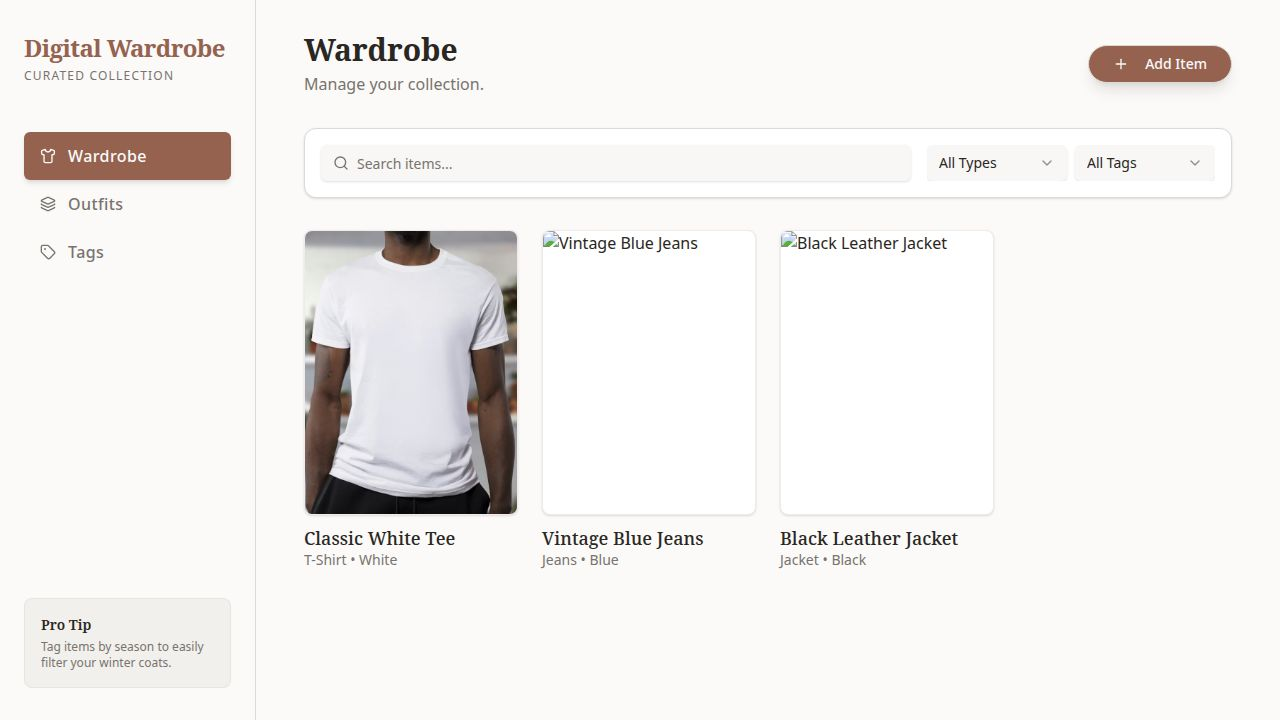
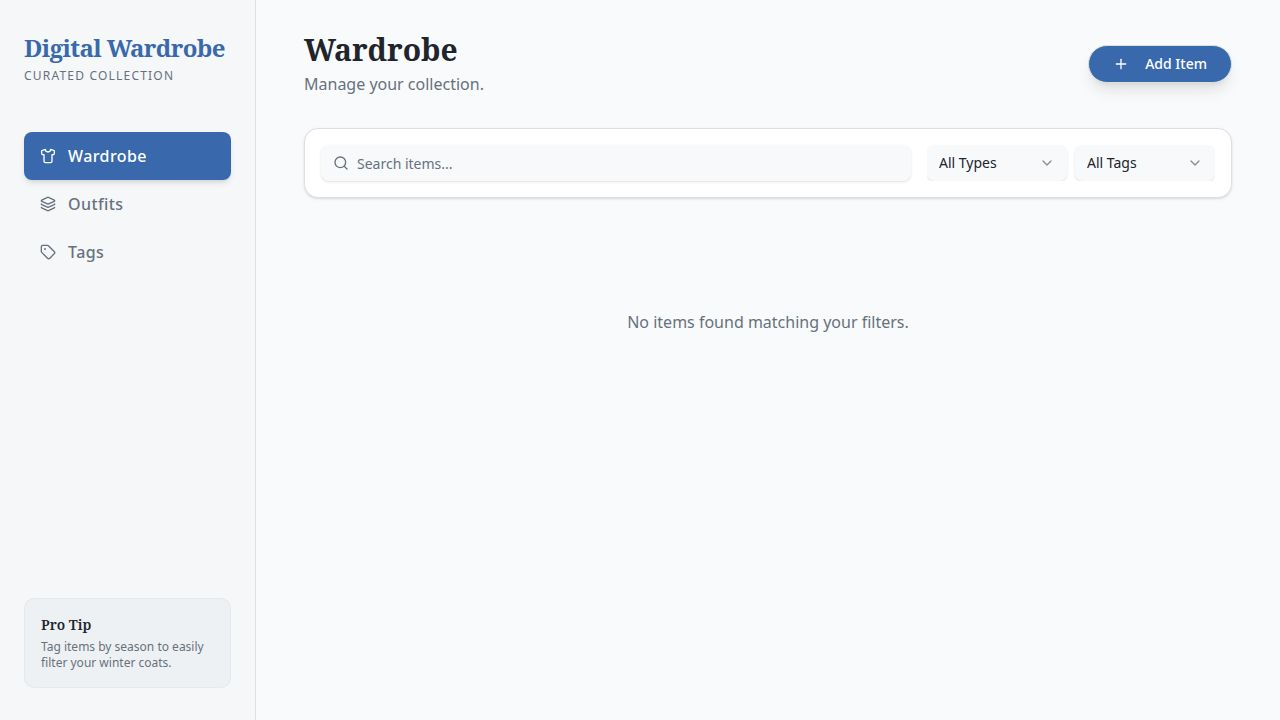
Update app color scheme to a modern cool slate palette
Replace warm neutral and terracotta colors with a cool slate and steel blue theme in client/src/index.css.

Replit-Commit-Author: Agent
Replit-Commit-Session-Id: afca13fa-0975-4b39-a9f3-641f27125e52
Replit-Commit-Checkpoint-Type: full_checkpoint
Replit-Commit-Event-Id: 32f22b6c-1d6d-4cc4-922f-88ea067fd136
Replit-Commit-Screenshot-Url: https://storage.googleapis.com/screenshot-production-us-central1/bad2f0ec-ba88-4ce2-959a-920aeea47803/afca13fa-0975-4b39-a9f3-641f27125e52/vcBfGRs
Replit-Helium-Checkpoint-Created: true

diff --git a/client/src/index.css b/client/src/index.css
@@ -54,109 +54,110 @@
 }
 
 /* 
-  Theme: Modern Minimalist Boutique
+  Theme: Cool Slate
   Fonts: Playfair Display (Headers), DM Sans (Body)
-  Colors: Warm Neutrals with Terracotta Accent
+  Colors: Steel blue primary with cool gray neutrals
 */
 
 :root {
-  /* Warm Off-White Background */
-  --background: 30 20% 98%;
-  --foreground: 30 10% 15%;
+  /* Cool Off-White Background */
+  --background: 210 20% 98%;
+  --foreground: 220 15% 15%;
 
   /* Clean White Cards */
   --card: 0 0% 100%;
-  --card-foreground: 30 10% 15%;
+  --card-foreground: 220 15% 15%;
 
   --popover: 0 0% 100%;
-  --popover-foreground: 30 10% 15%;
+  --popover-foreground: 220 15% 15%;
 
-  /* Muted Terracotta */
-  --primary: 15 30% 45%;
-  --primary-foreground: 30 20% 98%;
+  /* Steel Blue Primary */
+  --primary: 215 50% 45%;
+  --primary-foreground: 0 0% 100%;
 
-  /* Soft Beige Secondary */
-  --secondary: 30 15% 90%;
-  --secondary-foreground: 30 10% 15%;
+  /* Cool Gray Secondary */
+  --secondary: 210 15% 92%;
+  --secondary-foreground: 220 15% 20%;
 
-  --muted: 30 10% 94%;
-  --muted-foreground: 30 5% 45%;
+  --muted: 210 10% 94%;
+  --muted-foreground: 215 10% 45%;
 
-  --accent: 15 30% 96%;
-  --accent-foreground: 15 30% 45%;
+  --accent: 215 30% 95%;
+  --accent-foreground: 215 50% 40%;
 
-  --destructive: 0 84% 60%;
-  --destructive-foreground: 0 0% 98%;
+  --destructive: 0 72% 51%;
+  --destructive-foreground: 0 0% 100%;
 
-  --border: 30 10% 85%;
-  --input: 30 10% 85%;
-  --ring: 15 30% 45%;
+  --border: 210 15% 88%;
+  --input: 210 15% 88%;
+  --ring: 215 50% 45%;
 
-  --radius: 0.5rem;
+  --radius: 0.625rem;
 
-  --chart-1: 12 76% 61%;
-  --chart-2: 173 58% 39%;
-  --chart-3: 197 37% 24%;
-  --chart-4: 43 74% 66%;
-  --chart-5: 27 87% 67%;
+  --chart-1: 215 70% 50%;
+  --chart-2: 160 55% 40%;
+  --chart-3: 250 50% 55%;
+  --chart-4: 35 85% 55%;
+  --chart-5: 340 65% 50%;
 
-  --sidebar: 30 20% 98%;
-  --sidebar-foreground: 30 10% 15%;
-  --sidebar-primary: 15 30% 45%;
-  --sidebar-primary-foreground: 30 20% 98%;
-  --sidebar-accent: 30 15% 90%;
-  --sidebar-accent-foreground: 30 10% 15%;
-  --sidebar-border: 30 10% 85%;
-  --sidebar-ring: 15 30% 45%;
+  --sidebar: 215 25% 97%;
+  --sidebar-foreground: 220 15% 15%;
+  --sidebar-primary: 215 50% 45%;
+  --sidebar-primary-foreground: 0 0% 100%;
+  --sidebar-accent: 210 15% 92%;
+  --sidebar-accent-foreground: 220 15% 20%;
+  --sidebar-border: 210 15% 88%;
+  --sidebar-ring: 215 50% 45%;
   
   --font-sans: 'DM Sans', sans-serif;
   --font-serif: 'Playfair Display', serif;
 }
 
 .dark {
-  /* Dark Charcoal Background */
-  --background: 30 5% 10%;
-  --foreground: 30 20% 98%;
+  /* Deep Slate Background */
+  --background: 220 20% 10%;
+  --foreground: 210 20% 98%;
 
-  --card: 30 5% 13%;
-  --card-foreground: 30 20% 98%;
+  --card: 220 18% 13%;
+  --card-foreground: 210 20% 98%;
 
-  --popover: 30 5% 13%;
-  --popover-foreground: 30 20% 98%;
+  --popover: 220 18% 13%;
+  --popover-foreground: 210 20% 98%;
 
-  --primary: 15 30% 55%;
-  --primary-foreground: 30 20% 98%;
+  /* Brighter Steel Blue for dark mode */
+  --primary: 215 55% 55%;
+  --primary-foreground: 220 20% 10%;
 
-  --secondary: 30 5% 20%;
-  --secondary-foreground: 30 20% 98%;
+  --secondary: 220 15% 20%;
+  --secondary-foreground: 210 20% 98%;
 
-  --muted: 30 5% 20%;
-  --muted-foreground: 30 5% 65%;
+  --muted: 220 15% 18%;
+  --muted-foreground: 215 15% 60%;
 
-  --accent: 15 20% 20%;
-  --accent-foreground: 15 30% 55%;
+  --accent: 215 30% 22%;
+  --accent-foreground: 215 55% 60%;
 
-  --destructive: 0 62% 30%;
+  --destructive: 0 62% 40%;
   --destructive-foreground: 0 0% 98%;
 
-  --border: 30 5% 20%;
-  --input: 30 5% 20%;
-  --ring: 15 30% 55%;
+  --border: 220 15% 22%;
+  --input: 220 15% 22%;
+  --ring: 215 55% 55%;
 
-  --chart-1: 220 70% 50%;
-  --chart-2: 160 60% 45%;
-  --chart-3: 30 80% 55%;
-  --chart-4: 280 65% 60%;
-  --chart-5: 340 75% 55%;
+  --chart-1: 215 70% 55%;
+  --chart-2: 160 55% 45%;
+  --chart-3: 250 55% 60%;
+  --chart-4: 35 85% 60%;
+  --chart-5: 340 70% 55%;
 
-  --sidebar: 30 5% 10%;
-  --sidebar-foreground: 30 20% 98%;
-  --sidebar-primary: 15 30% 55%;
-  --sidebar-primary-foreground: 30 20% 98%;
-  --sidebar-accent: 30 5% 20%;
-  --sidebar-accent-foreground: 30 20% 98%;
-  --sidebar-border: 30 5% 20%;
-  --sidebar-ring: 15 30% 55%;
+  --sidebar: 220 20% 10%;
+  --sidebar-foreground: 210 20% 98%;
+  --sidebar-primary: 215 55% 55%;
+  --sidebar-primary-foreground: 220 20% 10%;
+  --sidebar-accent: 220 15% 20%;
+  --sidebar-accent-foreground: 210 20% 98%;
+  --sidebar-border: 220 15% 22%;
+  --sidebar-ring: 215 55% 55%;
 }
 
 @layer base {
